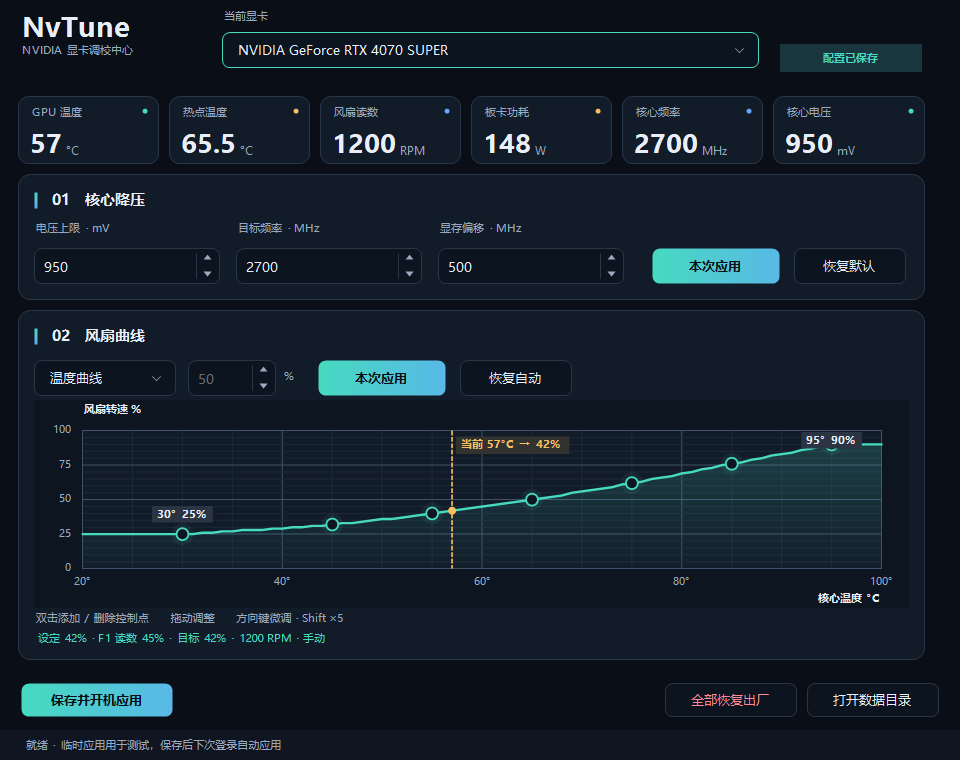
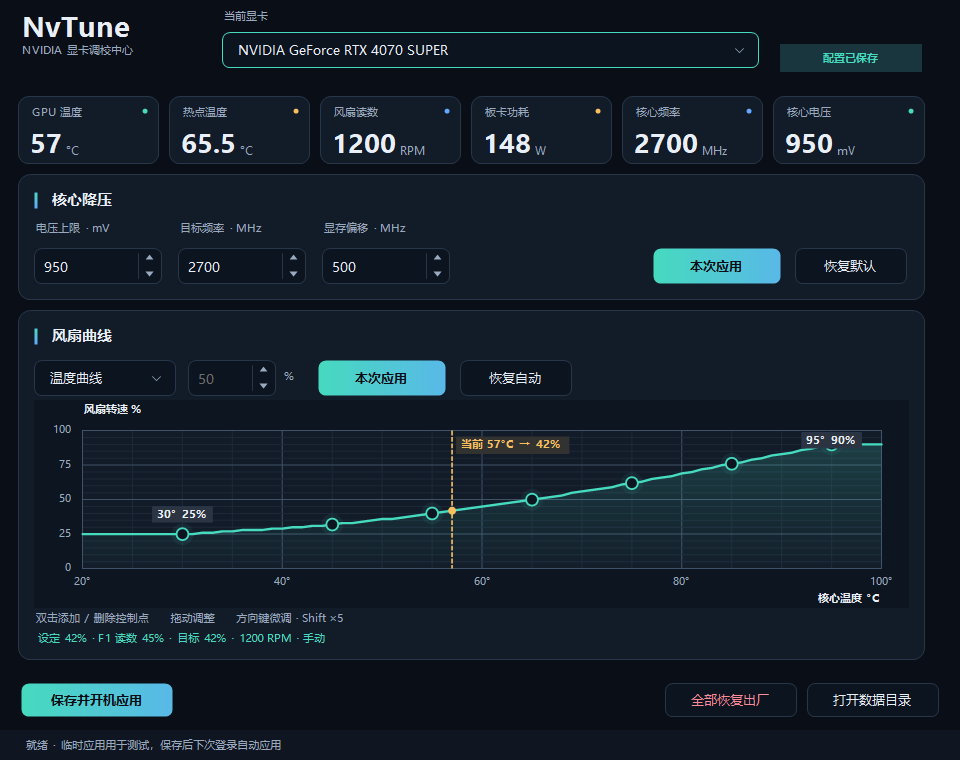
Shorten tuning inputs and simplify section titles in v1.0.11

diff --git a/src/NvTune.App/MainForm.Layout.cs b/src/NvTune.App/MainForm.Layout.cs
@@ -121,10 +121,11 @@ internal sealed partial class MainForm
     }
     private Control BuildUndervoltCard()
     {
-        var card = Theme.Card("01   核心降压", out var body);
-        var grid = Theme.Table(5, 2);
+        var card = Theme.Card("核心降压", out var body);
+        var grid = Theme.Table(6, 2);
         grid.ColumnStyles.Clear();
-        for (int i = 0; i < 3; i++) grid.ColumnStyles.Add(new ColumnStyle(SizeType.Percent, 33.33f));
+        for (int i = 0; i < 3; i++) grid.ColumnStyles.Add(new ColumnStyle(SizeType.Absolute, D(144)));
+        grid.ColumnStyles.Add(new ColumnStyle(SizeType.Percent, 100));
         grid.ColumnStyles.Add(new ColumnStyle(SizeType.Absolute, D(142)));
         grid.ColumnStyles.Add(new ColumnStyle(SizeType.Absolute, D(126)));
         grid.RowStyles.Clear();
@@ -135,15 +136,15 @@ internal sealed partial class MainForm
         AddField(grid, 2, "显存偏移 · MHz", _memInput);
         var apply = Theme.PrimaryButton("本次应用", (_, _) => ApplyUndervolt());
         _tips.SetToolTip(apply, "临时应用降压，关闭软件后恢复保存的配置");
-        grid.Controls.Add(Theme.Cell(apply, new Padding(D(12), 0, 0, 0)), 3, 1);
-        grid.Controls.Add(Theme.Cell(Theme.SecondaryButton("恢复默认", (_, _) => ResetUndervolt()), new Padding(D(12), 0, 0, 0)), 4, 1);
+        grid.Controls.Add(Theme.Cell(apply, new Padding(D(12), 0, 0, 0)), 4, 1);
+        grid.Controls.Add(Theme.Cell(Theme.SecondaryButton("恢复默认", (_, _) => ResetUndervolt()), new Padding(D(12), 0, 0, 0)), 5, 1);
         body.Controls.Add(grid);
         return card;
     }
 
     private Control BuildFanCard()
     {
-        var card = Theme.Card("02   风扇曲线", out var body);
+        var card = Theme.Card("风扇曲线", out var body);
         var top = Theme.Table(5, 1);
         top.Dock = DockStyle.Top;
         top.Height = D(44);
@@ -211,7 +212,8 @@ internal sealed partial class MainForm
         label.Margin = Padding.Empty;
         grid.Controls.Add(label, column, 0);
         input.Dock = DockStyle.None;
-        input.Anchor = AnchorStyles.Left | AnchorStyles.Right;
+        input.Anchor = AnchorStyles.Left;
+        input.Width = D(128);
         input.Height = D(36);
         input.Margin = new Padding(0, 0, D(16), 0);
         grid.Controls.Add(input, column, 1);

diff --git a/src/NvTune.App/MainForm.cs b/src/NvTune.App/MainForm.cs
@@ -74,7 +74,7 @@ internal sealed partial class MainForm : Form
     {
         _preview = preview;
         SuspendLayout();
-        Text = "NvTune 1.0.10 · NVIDIA 降压与风扇";
+        Text = "NvTune 1.0.11 · NVIDIA 降压与风扇";
         Font = Theme.BodyFont();
         BackColor = Theme.Canvas;
         AutoScaleDimensions = new SizeF(96, 96);

diff --git a/CHANGELOG.md b/CHANGELOG.md
@@ -1,5 +1,11 @@
 # 修订记录
 
+## 1.0.11（2026-11-20）
+
+- 移除“核心降压”和“风扇曲线”标题前的 01 / 02 编号。
+- 电压、频率与显存偏移输入框调整为 128 像素设计宽度，随 DPI 缩放，避免随窗口拉宽；操作按钮保留在右侧。
+- 复核热点温度的架构识别与失败说明。当前按已知架构读取，是否提供有效热点仍取决于具体显卡和驱动；未新增未经验证的传感器映射。
+
 ## 1.0.10（2026-11-20）
 
 - 在 GPU 温度右侧新增独立“热点温度”卡片，通过只读驱动接口读取，最多显示一位小数。
